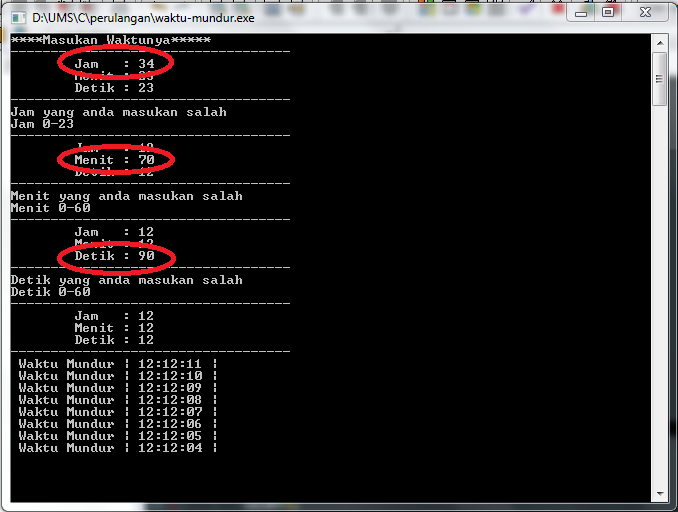
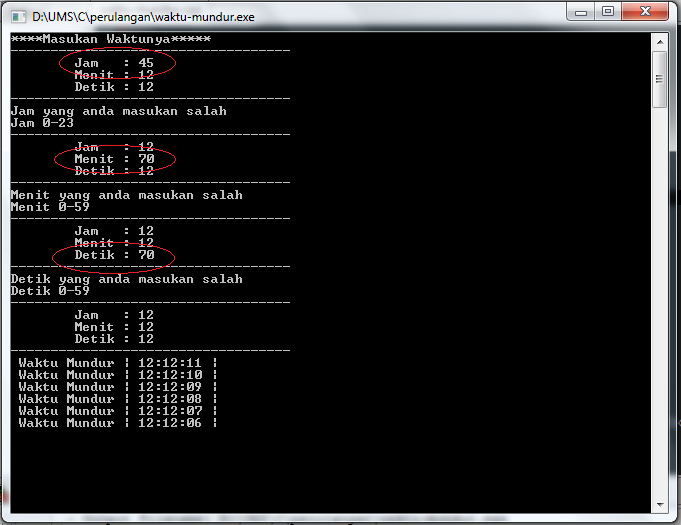
update

Changed region(s): [[0.0, 0.0, 1.0, 1.0]]

diff --git a/Waktu_mundur/waktu-mundur.cpp b/Waktu_mundur/waktu-mundur.cpp
@@ -19,13 +19,13 @@ int main() {
 		printf("Jam yang anda masukan salah\n");
 		printf("Jam 0-23\n");
 		salah=1;
-	}else if(MENIT>60){
+	}else if(MENIT>59){
 		printf("Menit yang anda masukan salah\n");
-		printf("Menit 0-60\n");
+		printf("Menit 0-59\n");
 		salah=1;
-	}else if(DETIK>60){
+	}else if(DETIK>59){
 		printf("Detik yang anda masukan salah\n");
-		printf("Detik 0-60\n");
+		printf("Detik 0-59\n");
 		salah=1;
 	}else{
 		salah = 0;
